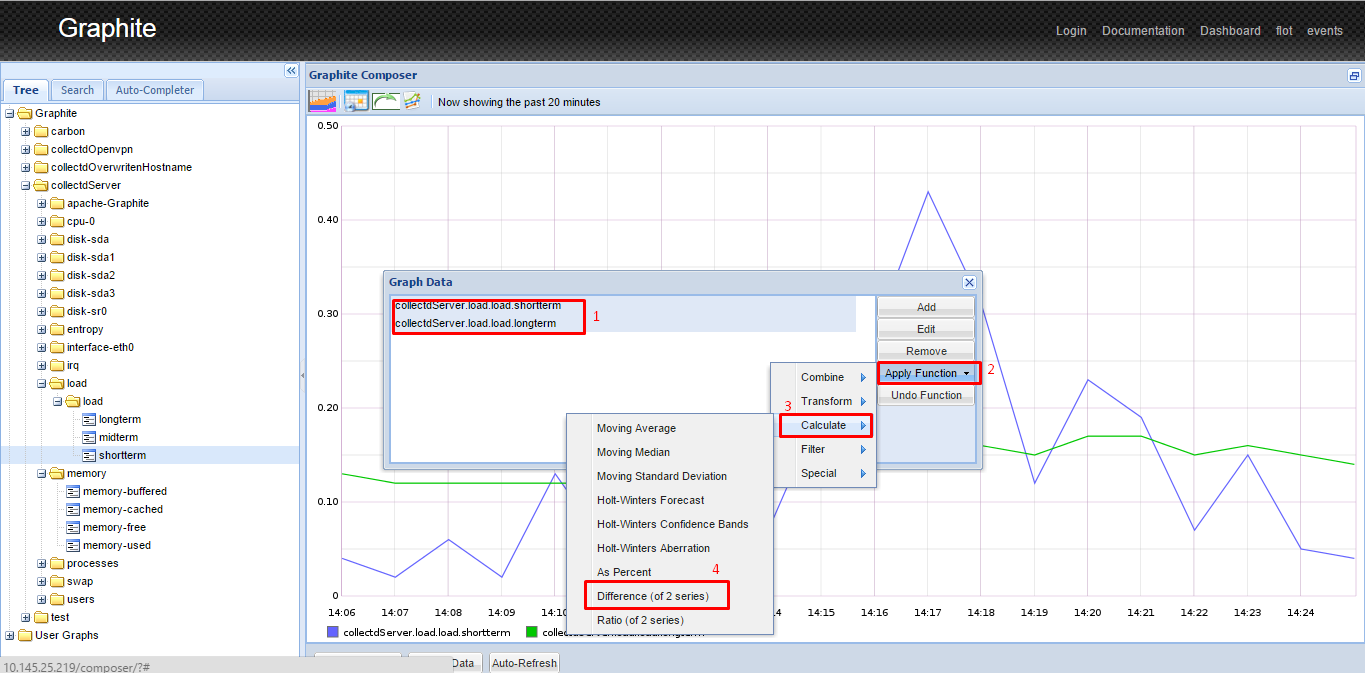
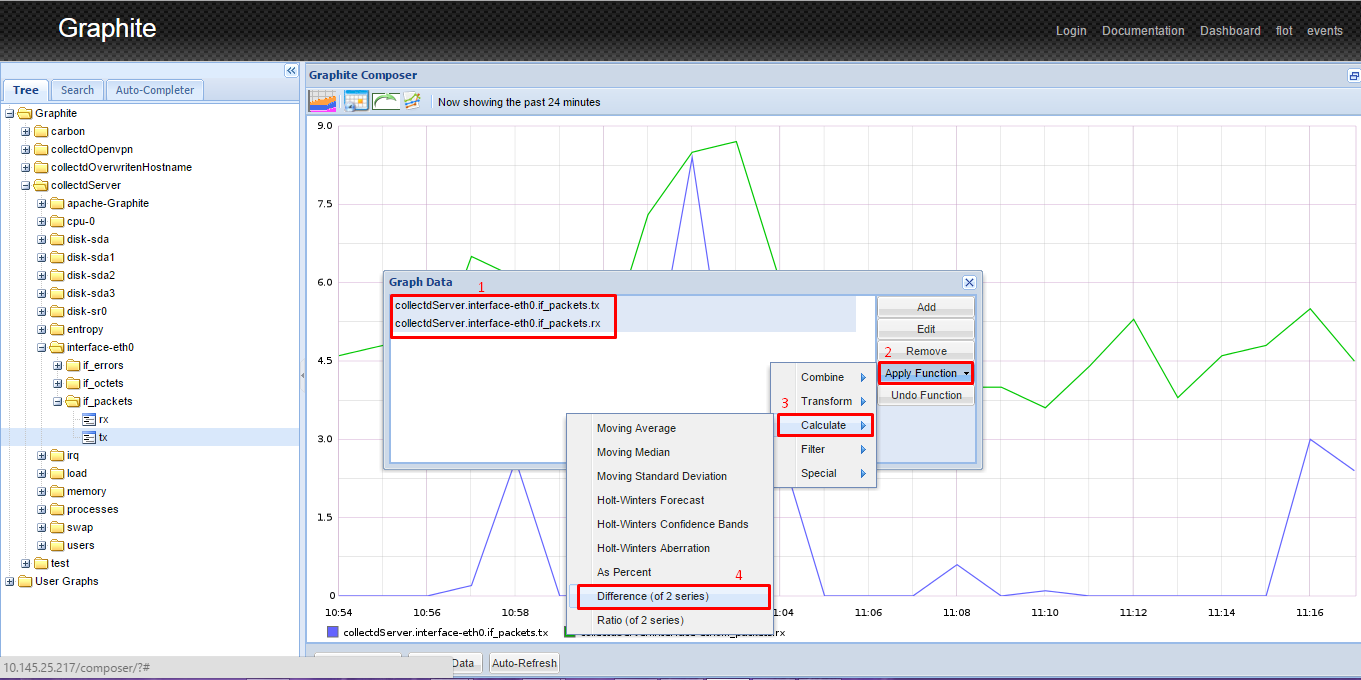
change something in difference function

diff --git a/function.md b/function.md
@@ -163,13 +163,16 @@ Hình 10
 <a name="minhhoadifference"></a>
 #####6.2 Minh họa.
 
-- Chọn hai thông số người dùng muốn so sánh. Tôi chọn load.longterm và load.shortterm. Sau đó chọn Apply Function-> Calculate-> Difference.
+- Chọn hai thông số người dùng muốn so sánh. Tôi chọn packet nhận và truyền đi của card eth0. Sau đó chọn Apply Function-> Calculate-> Difference.
 
 Hình 11
 ![difference](/images/functionDifference1.png)
 
 Hình 12
 ![difference](/images/functionDifference2.png)
+
+Có thể thấy rằng số lượng packet transform nhỏ hơn số lượng packet recieve
+
 
 <a name="ratio"></a>
 ####7. Ratio function.
